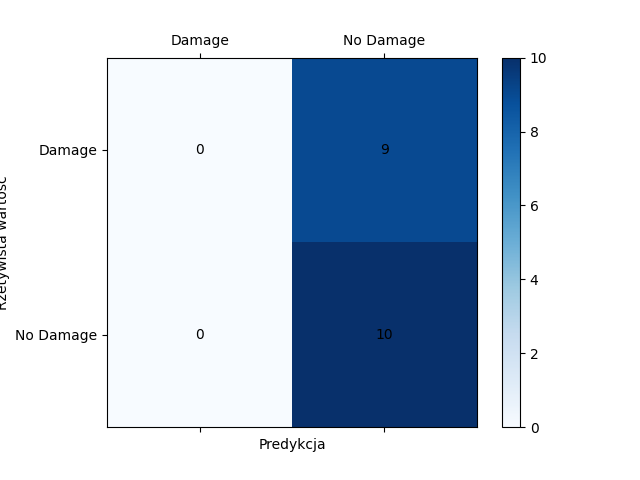
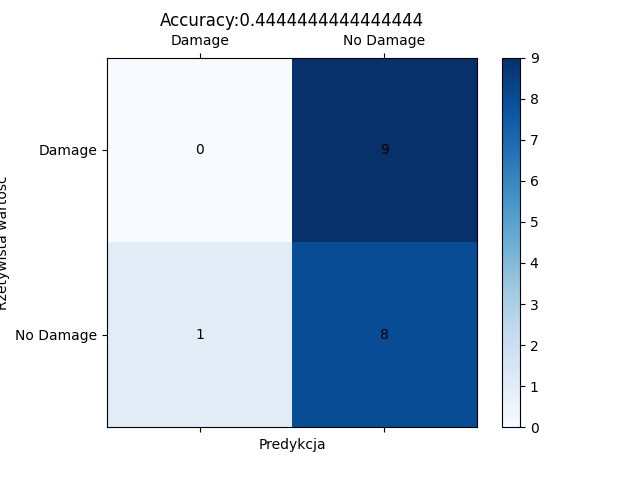
tests for autoencoder two files into train batch

diff --git a/src/autoencoder/train.py b/src/autoencoder/train.py
@@ -5,6 +5,8 @@ import torch
 from torch.utils.data import DataLoader, TensorDataset
 
 from autoencoder import Autoencoder
+import os
+import glob
 
 
 from matplotlib import pyplot as plt
@@ -12,21 +14,45 @@ import torch.nn as nn
 import torch.optim as optim
 import json
 import matplotlib.pyplot as plt
+import argparse
 
 
+parser = argparse.ArgumentParser()
+parser.add_argument('--propeller', type=str, required=True, help='Model to test')
+args = parser.parse_args()
 
-df = pd.read_csv('/workspace/UAV_measurement_data/Parrot_Bebop_2/Normalized_data/train/Bebop2_16g_1kdps_normalized_0000.csv')
-df2 = pd.read_csv('/workspace/UAV_measurement_data/Parrot_Bebop_2/Normalized_data/train/Bebop2_16g_1kdps_normalized_1102.csv')
+
+save_dir = os.path.join('./models/',args.propeller)
+
+print(save_dir)
+
+os.makedirs(save_dir, exist_ok=True)
+
+
+file_pattern = '/workspace/UAV_measurement_data/Parrot_Bebop_2/Normalized_data/train'+args.propeller+'/Bebop2_16g_1kdps_normalized_*.csv'
+cols = [args.propeller+'_aX', args.propeller+'_aY',args.propeller+'_aZ',args.propeller+'_gX',args.propeller+'_gY',args.propeller+'_gZ']
+
+def load_data(data, cols):
+    
+    files = glob.glob(data)
+    data_list = []
+    print('train on: ')
+    for file in files:
+
+        print(file)
+        data = pd.read_csv(file)
+        propeller_data = data[cols]
+
+        data_list.append(propeller_data)
+
+    return pd.concat(data_list, axis=0)
+
+training_data=load_data(file_pattern, cols)
+
+print(training_data.head())
+
 scaler = StandardScaler()
-data = scaler.fit_transform(df.values)
-
-# Dane tylko z smigla A
-A_propeler=df[['C_aX', 'C_aY', 'C_aZ', 'C_gX', 'C_gY', 'C_gZ']]
-A2_propeler=df2[['C_aX', 'C_aY', 'C_aZ', 'C_gX', 'C_gY', 'C_gZ']]
-
-A_propeler = pd.concat([A_propeler], axis=0)
-
-data = scaler.fit_transform(A_propeler.values)
+data = scaler.fit_transform(training_data)
 
 data_tensor = torch.tensor(data, dtype=torch.float32)
 dataset = TensorDataset(data_tensor)
@@ -60,31 +86,29 @@ for epoch in range(num_epochs):
 
         total_loss += loss.item()
 
-        
-    
     print(f'Epoch {epoch+1}/{num_epochs}, Loss: {total_loss/len(dataloader)}')
     loss_values.append(total_loss/len(dataloader))
 
-torch.save(model.state_dict(), './models/C_propeller/autoencoder_model.pth')
+torch.save(model.state_dict(), './models/'+args.propeller+'/autoencoder_model.pth')
 
-np.save('./models/C_propeller/scaler_params.npy', [scaler.mean_, scaler.scale_])
+np.save('./models/'+args.propeller+'/scaler_params.npy', [scaler.mean_, scaler.scale_])
 
 print('Model saved to autoencoder_model.pth')
 
 with torch.no_grad():
     training_reconstruction = model(data_tensor)
     training_reconstruction_error = nn.MSELoss(reduction='none')(training_reconstruction, data_tensor).mean(dim=1).numpy()
-threshold = np.percentile(training_reconstruction_error, 85)  
+threshold = np.percentile(training_reconstruction_error, 95)  
 
 
-with open('./models/C_propeller/threshold.json', 'w') as f:
+with open('./models/'+args.propeller+'/threshold.json', 'w') as f:
     json.dump({'threshold': threshold}, f)
 
 print(threshold)
 
 
-plt.plot(loss_values)
-plt.xlabel('Epoch')
-plt.ylabel('Loss')
-plt.title('Training Loss')
-plt.show()
+# plt.plot(loss_values)
+# plt.xlabel('Epoch')
+# plt.ylabel('Loss')
+# plt.title('Training Loss')
+# plt.show()

diff --git a/src/autoencoder/test.py b/src/autoencoder/test.py
@@ -9,23 +9,30 @@ import torch.nn as nn
 import torch.optim as optim
 import json
 import os
+import argparse
 
+parser = argparse.ArgumentParser()
+
+parser.add_argument('--propeller', type=str, default='A', help='Model to test')
+args = parser.parse_args()
 
 
 input_dim = 6  
 model = Autoencoder(input_dim)
-model.load_state_dict(torch.load('./models/C_propeller/autoencoder_model.pth'))
+model.load_state_dict(torch.load('./models/'+args.propeller+'/autoencoder_model.pth'))
 model.eval()
 
-scaler_params = np.load('./models/C_propeller/scaler_params.npy', allow_pickle=True)
+scaler_params = np.load('./models/'+args.propeller+'/scaler_params.npy', allow_pickle=True)
 scaler_mean, scaler_scale = scaler_params
 scaler = lambda x: (x - scaler_mean) / scaler_scale
 
-with open('models/C_propeller/threshold.json', 'r') as f:
+with open('models/'+args.propeller+'/threshold.json', 'r') as f:
     data = json.load(f)
     threshold = data['threshold']
 
 folder_path = '/workspace/UAV_measurement_data/Parrot_Bebop_2/Normalized_data/test/'
+
+skip_path = '/workspace/UAV_measurement_data/Parrot_Bebop_2/Normalized_data/train'+args.propeller+'/'
 
 
 csv_files = [f for f in os.listdir(folder_path) if f.endswith('.csv')]
@@ -40,11 +47,17 @@ TN = 0
 FP = 0
 FN = 0
 
+cols = [args.propeller+'_aX', args.propeller+'_aY',args.propeller+'_aZ',args.propeller+'_gX',args.propeller+'_gY',args.propeller+'_gZ']
+
+place_in_row = {'A': 0, 'B': 1, 'C': 2, 'D': 3}[args.propeller]
+
 for csv_file in csv_files:
+    if csv_file in os.listdir(skip_path):
+        continue
     file_path = os.path.join(folder_path, csv_file)
     
     df_test = pd.read_csv(file_path)
-    A_propeler_test = df_test[['C_aX', 'C_aY', 'C_aZ', 'C_gX', 'C_gY', 'C_gZ']]
+    A_propeler_test = df_test[cols]
 
     data_test = scaler(A_propeler_test.values)
     data_test_tensor = torch.tensor(data_test, dtype=torch.float32)
@@ -69,9 +82,11 @@ for csv_file in csv_files:
 
     last_part = parts[-1]
 
-    desired_character = last_part[2]
+    desired_character = last_part[place_in_row]
 
-    if damage > no_damage:
+
+    #plus 20 procents
+    if damage > no_damage * 1.2:
         print(f"Damage detected in {csv_file}")
 
         if desired_character == '1' or desired_character == '2':
@@ -115,10 +130,15 @@ ax.set_yticklabels([''] + labels)
 plt.xlabel('Predykcja')
 plt.ylabel('Rzetywista wartość')
 
+plt.title('Accuracy:'+str(correct_detection / (correct_detection + incorrect_detection)))
+
 for (i, j), val in np.ndenumerate(confusion_matrix):
     ax.text(j, i, f'{val}', ha='center', va='center', color='black')
 
-plt.show()
+plt.savefig('./results/confusion_matrix'+args.propeller+'.png')
+
+
+# plt.show()
 
 
 

diff --git a/src/k_means/test.py b/src/k_means/test.py
@@ -45,12 +45,18 @@ FN = 0
 test_folder = '/workspace/UAV_measurement_data/Parrot_Bebop_2/Normalized_data/test/'
 test_files = [f for f in os.listdir(test_folder) if f.endswith('.csv')]
 
+skip_path = '/workspace/UAV_measurement_data/Parrot_Bebop_2/Normalized_data/train'+args.propeller+'/'
+
+
 
 place_in_row=0
 
 place_in_row = {'A': 0, 'B': 1, 'C': 2, 'D': 3}[args.propeller]
 
 for test_file in test_files:
+
+    if test_file in os.listdir(skip_path):
+        continue
     file_path = os.path.join(test_folder, test_file)
     df_test = pd.read_csv(file_path)
     
@@ -123,10 +129,13 @@ ax.set_yticklabels([''] + labels)
 plt.xlabel('Predykcja')
 plt.ylabel('Rzetywista wartość')
 
+plt.title('Accuracy:'+str(correct_detection / (correct_detection + incorrect_detection)))
+
+
 for (i, j), val in np.ndenumerate(confusion_matrix):
     ax.text(j, i, f'{val}', ha='center', va='center', color='black')
 
-plt.savefig('./confusion_matrix'+args.propeller+'.png')
+plt.savefig('./results/confusion_matrix'+args.propeller+'.png')
 
 plt.close()
 

diff --git a/src/k_means/train.py b/src/k_means/train.py
@@ -21,7 +21,7 @@ print(save_dir)
 os.makedirs(save_dir, exist_ok=True)
 
 # Wczytanie danych treningowych (2 przeloty)
-file_pattern = '/workspace/UAV_measurement_data/Parrot_Bebop_2/Normalized_data/train/Bebop2_16g_1kdps_normalized_*.csv'
+file_pattern = '/workspace/UAV_measurement_data/Parrot_Bebop_2/Normalized_data/train'+args.propeller+'/Bebop2_16g_1kdps_normalized_*.csv'
 cols = [args.propeller+'_aX', args.propeller+'_aY',args.propeller+'_aZ',args.propeller+'_gX',args.propeller+'_gY',args.propeller+'_gZ']
 
 def load_data(data, cols):
